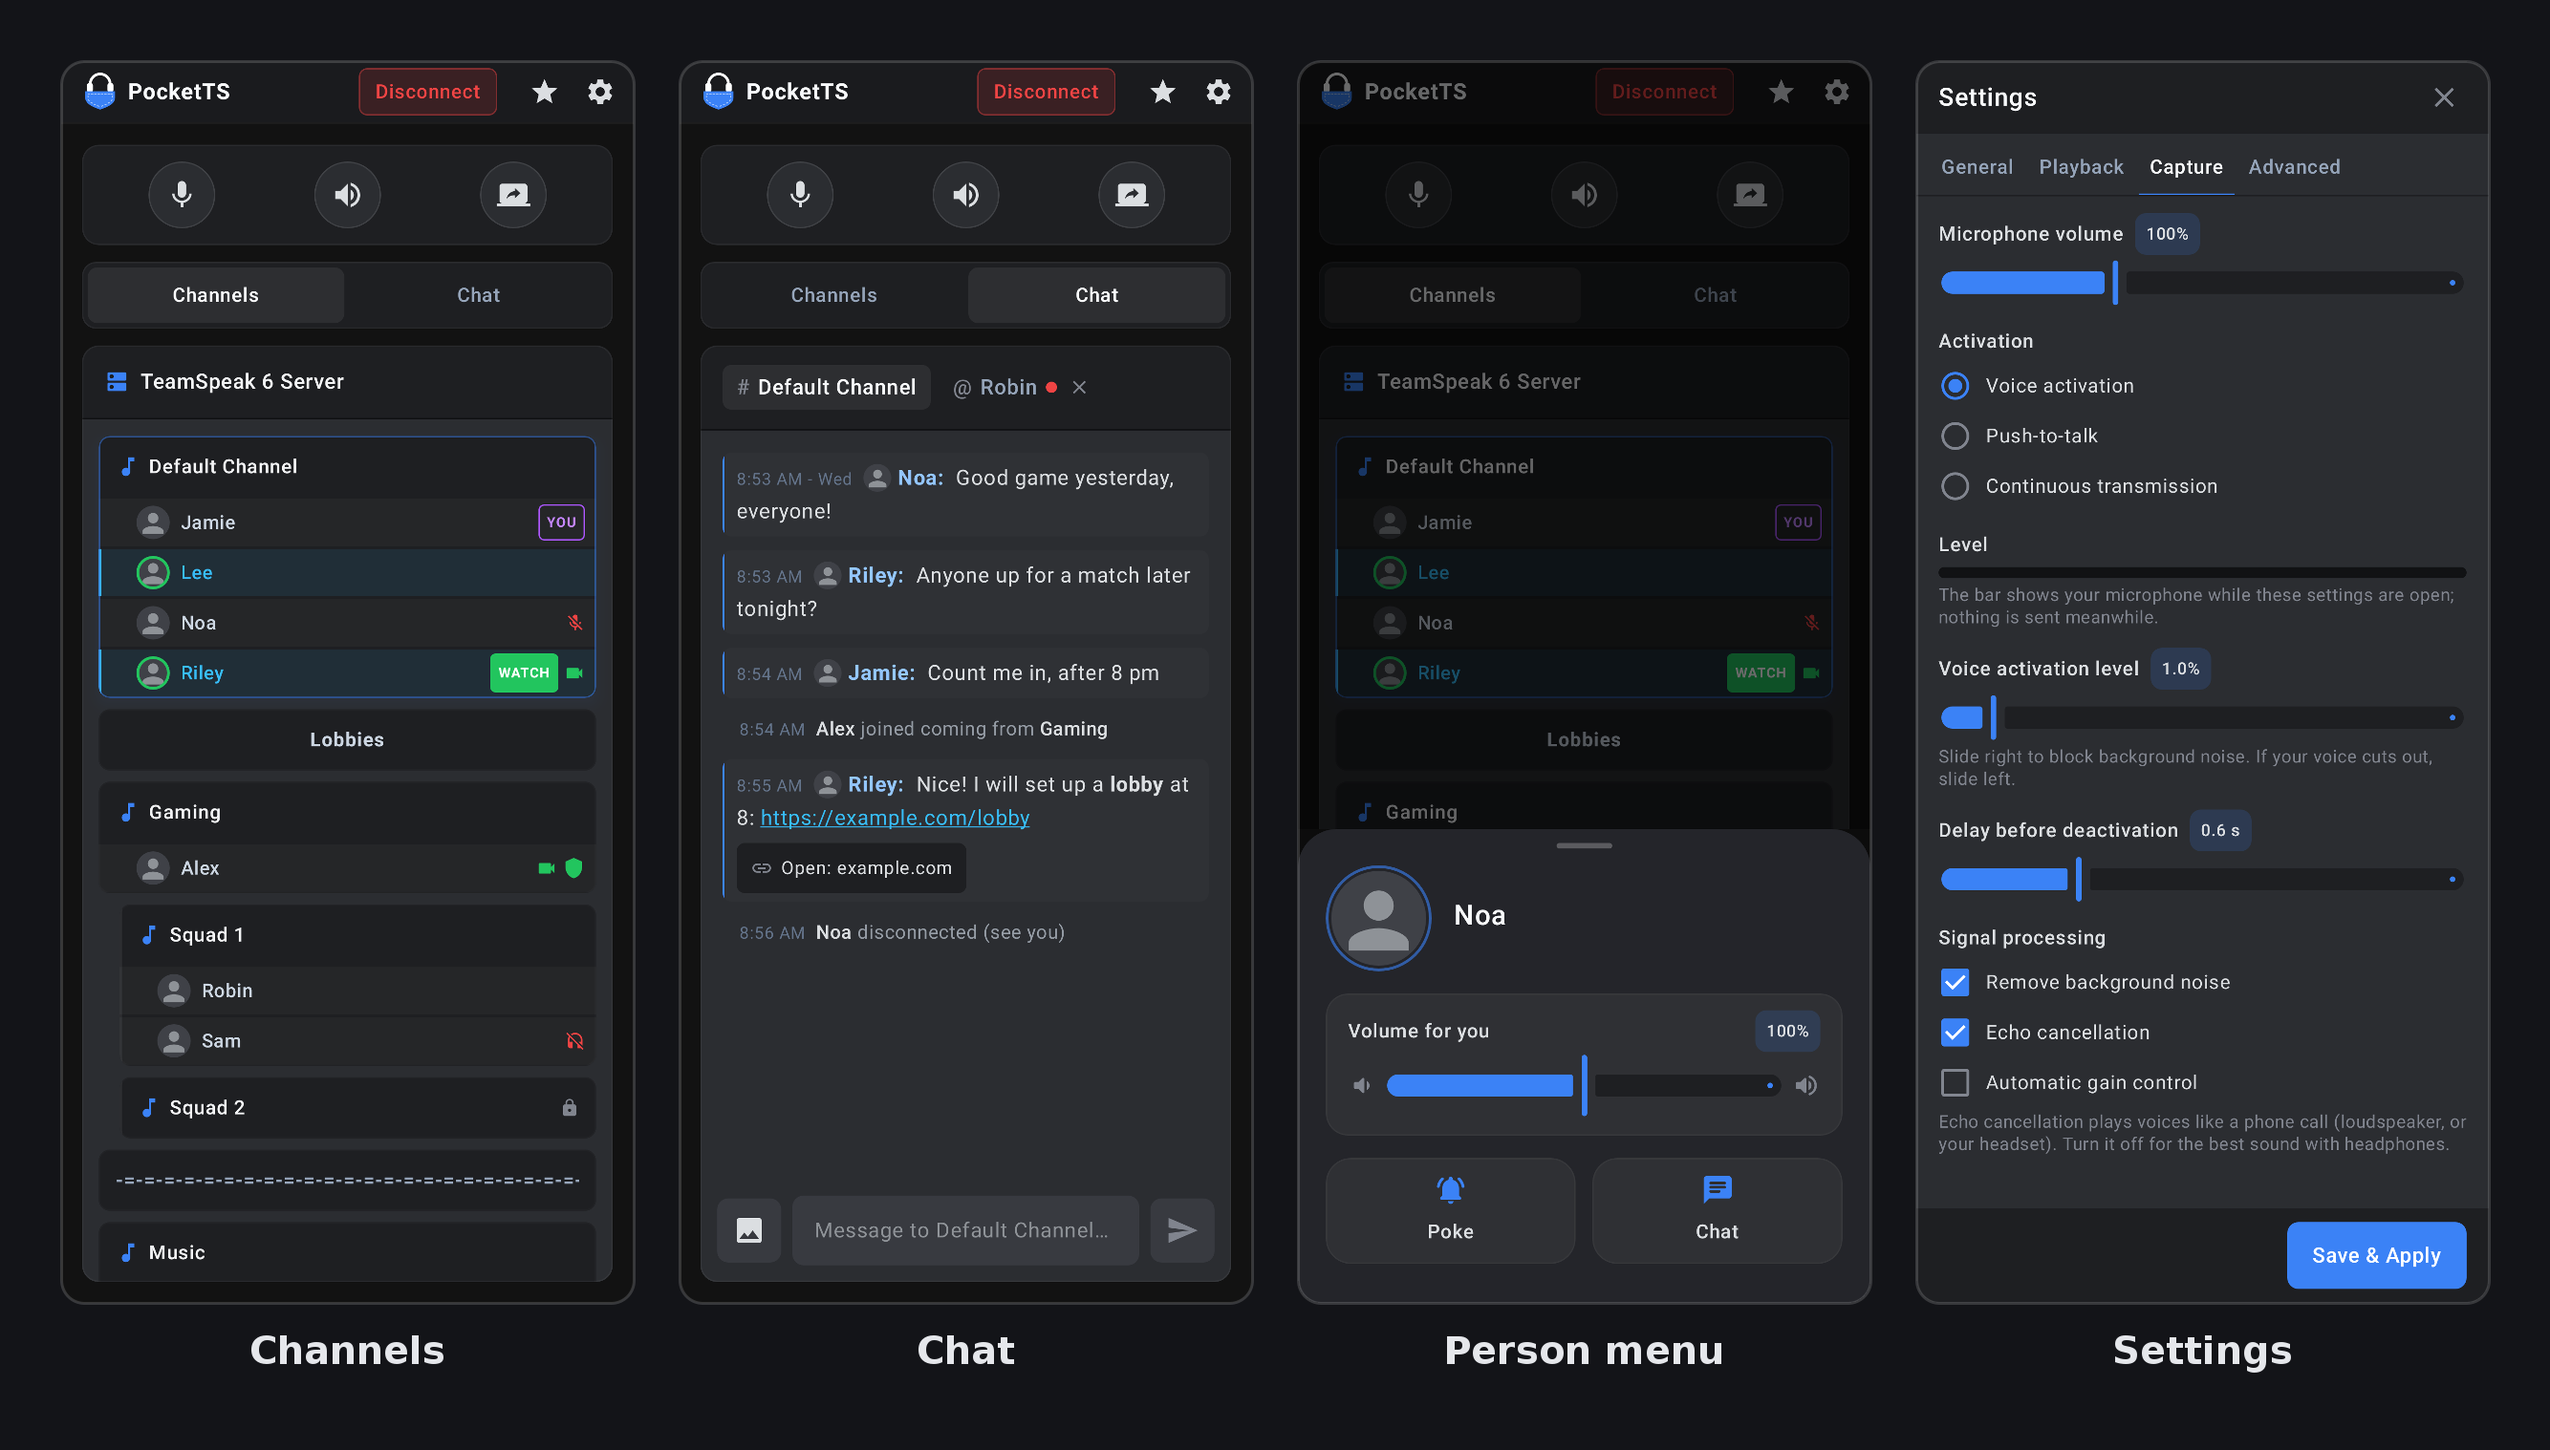
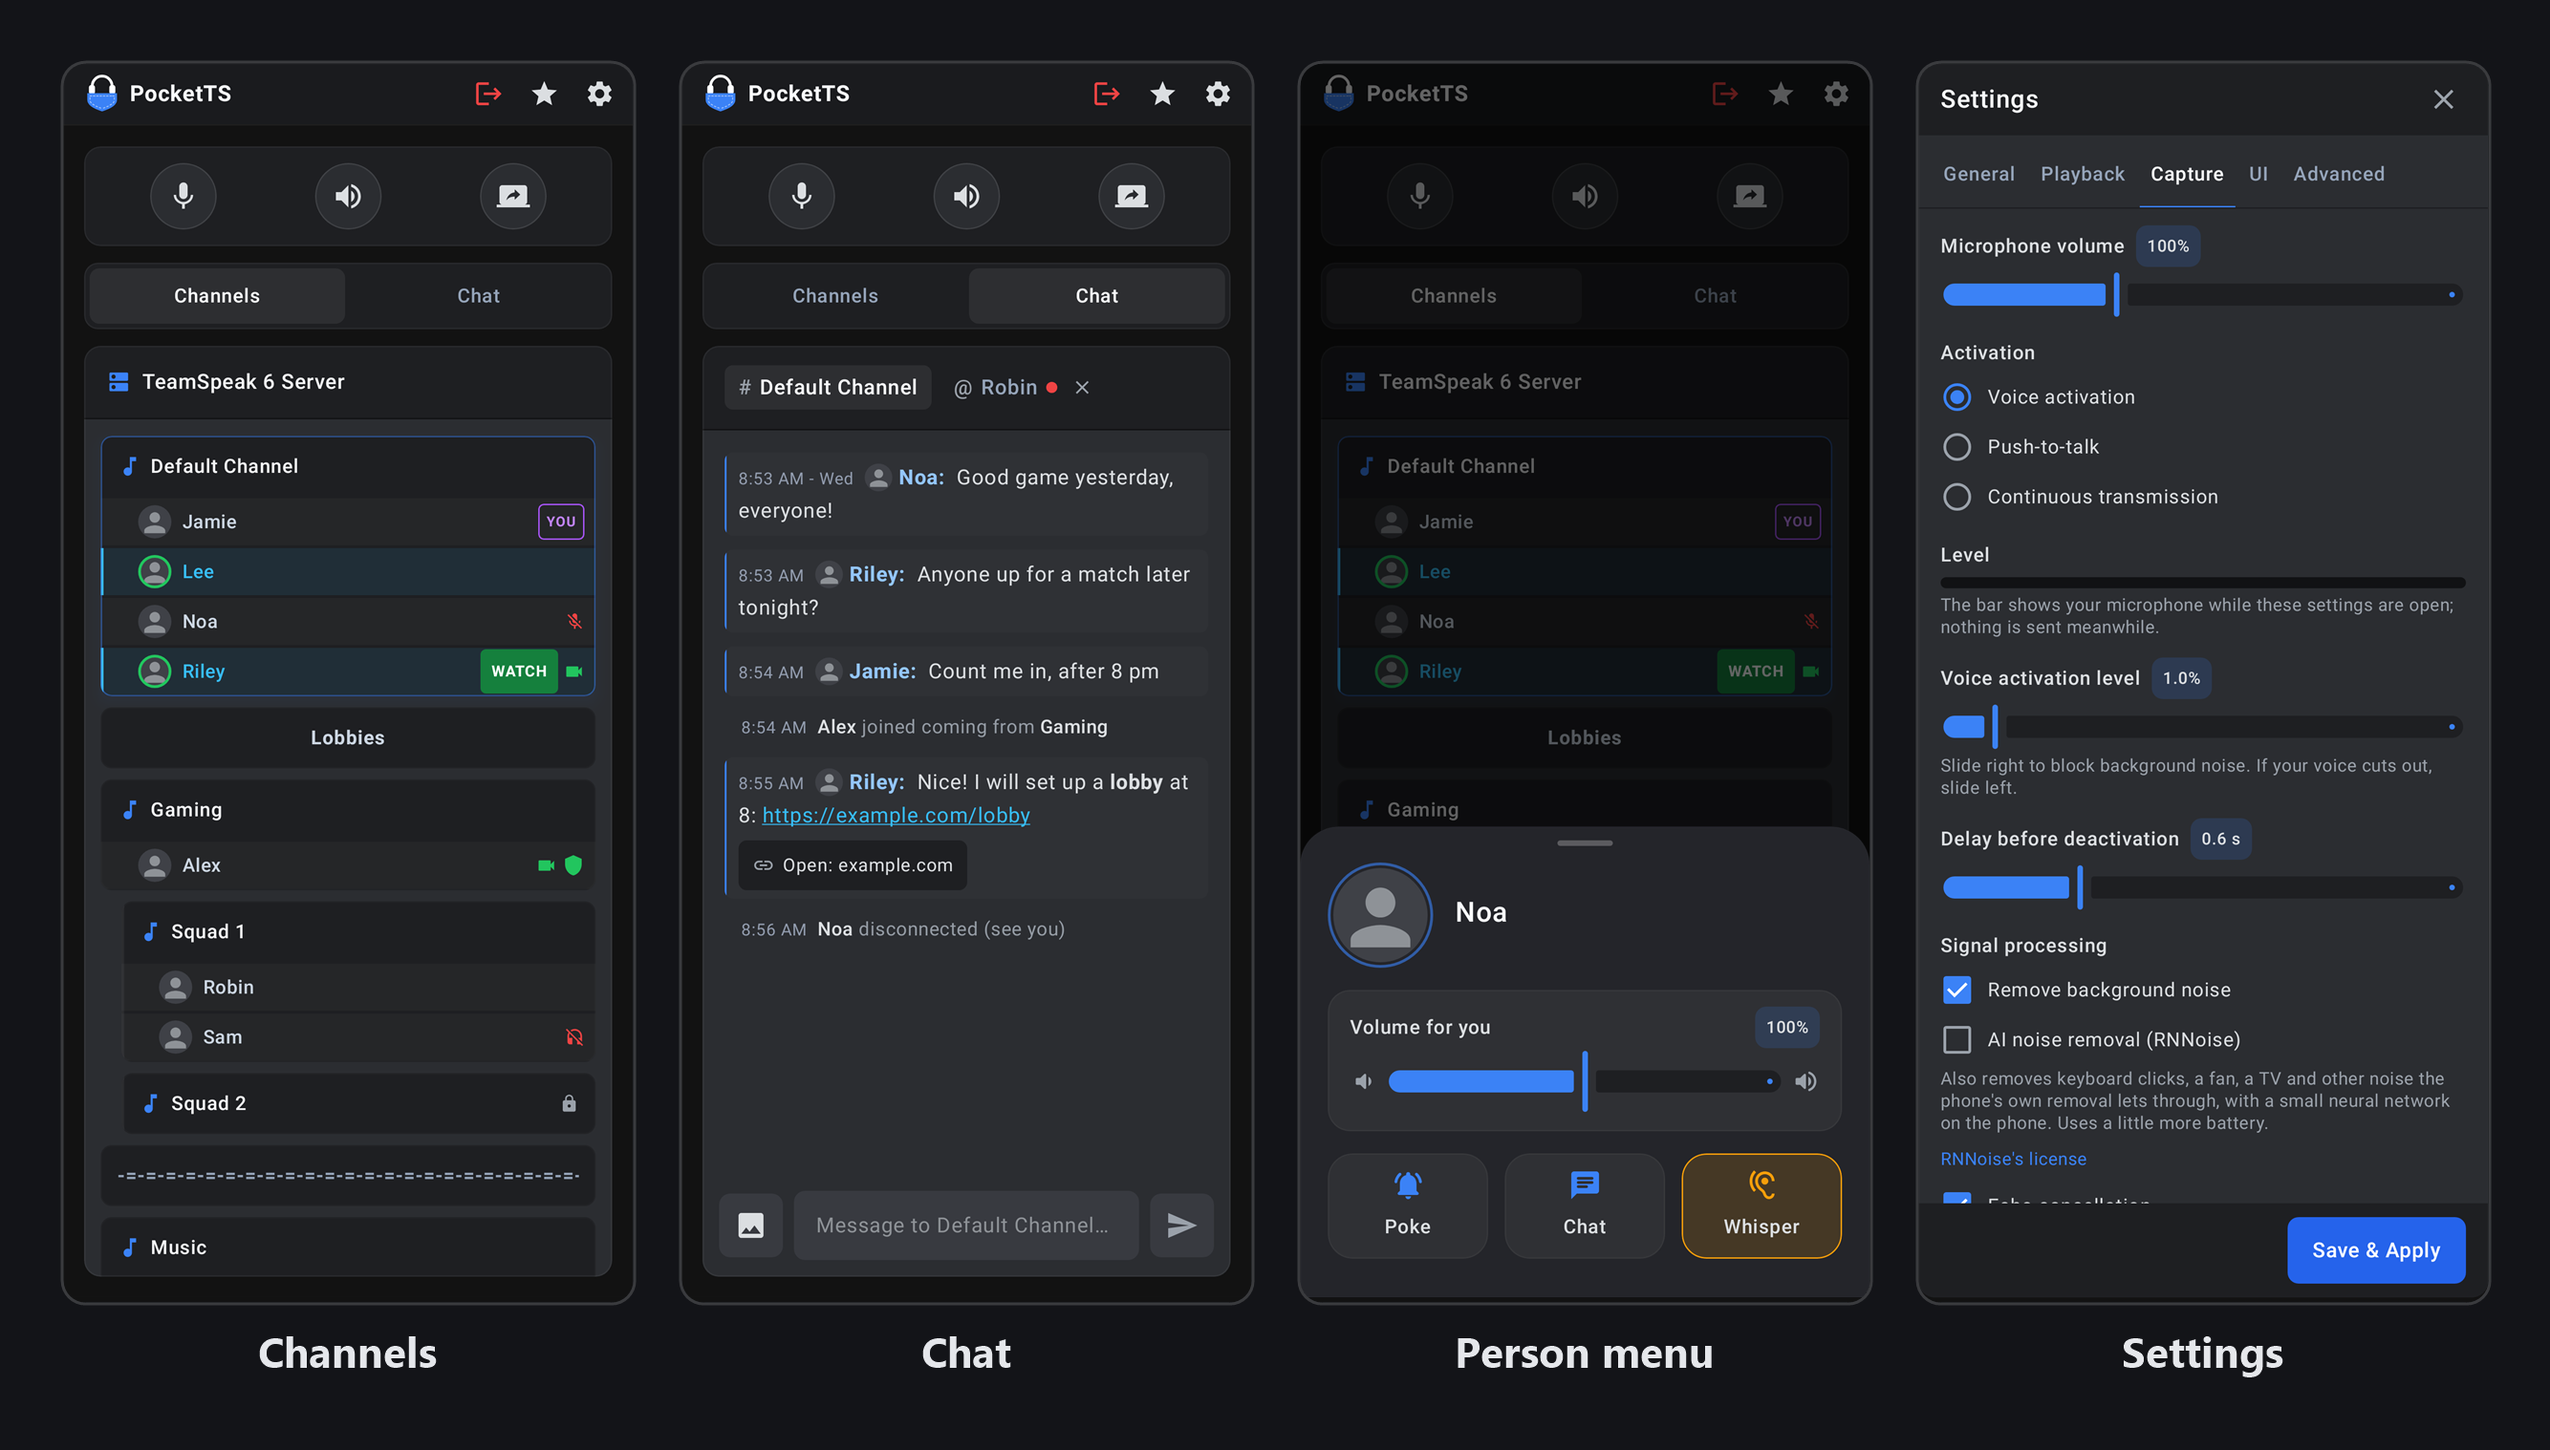
Release 1.6.0
versionCode 7, versionName 1.6.0. The changelog's lines become 1.6.0
(2026-11-02), most noticeable first: the camera's flashlight, zoom, tap to
focus and lenses, AI noise removal, talking while watching full screen, the
debug log, easier to read and tap, pasted ts3server:// links, screen
readers, and the two smoothness changes.

README: updated text; the features mention AI noise removal, the full
screen stream's push-to-talk and volume, and the camera's flashlight, zoom,
tap to focus and lenses; the limitations add 1:1 voice calls and group
chats, which go through myTeamSpeak. The overview picture is made again from
the current screenshots (Disconnect as an icon, lighter grey text, the
person menu's Whisper). The Play listing mentions the same new features.

diff --git a/CHANGELOG.md b/CHANGELOG.md
@@ -1,20 +1,7 @@
 # Changelog
 
-## Unreleased
+## 1.6.0 (2026-11-02)
 
-- **Smoother start:** PocketTS's own code is compiled ahead of time when the app is installed (a baseline profile),
-  so starting, opening screens the first time and starting a stream are smoother. The log notes how long a start took.
-- **Smoother in busy channels:** someone starting or stopping talking now redraws only their row in the channel list,
-  not the whole screen (and not the chat at all), so a busy channel uses less of the phone.
-- **Debug log:** Settings › Advanced › Debug log keeps a log for bug reports on the phone, crashes included, with
-  server addresses, names, messages and keys taken out (running numbers such as "server 1" tell them apart). Of the
-  chat it notes only that a message was sent or arrived. The app never sends it: Share log hands it to
-  the app you choose, Delete log removes it, and turning it off deletes it. Off by default. The privacy policy says
-  what it holds, and a bug report template asks for it.
-- **AI noise removal:** Settings › Capture › AI noise removal (RNNoise) runs Xiph's RNNoise, a small neural network, on
-  the microphone's sound before it's sent. It removes noise the phone's own noise removal lets through, such as
-  keyboard clicks, a fan or a TV; with both on, keyboard clicks next to the phone are almost silent. It's off by
-  default, and takes about a tenth of one processor core.
 - **Camera streams:** the camera has the app's own camera code now, which brings:
   - **Flashlight:** a button in the share bar lights the back camera (also a lens without a flash of its own, such as
     an ultra-wide, on phones that allow it); a new stream starts with it off, as with the ring light.
@@ -26,9 +13,18 @@
     ("0.6×", "1×") and switches to the next one during the stream.
   - **Losing the camera** to a call or another app ends the share with a message instead of a frozen picture.
   - The preview shows the picture as viewers see it, also with the turn locked.
+- **AI noise removal:** Settings › Capture › AI noise removal (RNNoise) runs Xiph's RNNoise, a small neural network, on
+  the microphone's sound before it's sent. It removes noise the phone's own noise removal lets through, such as
+  keyboard clicks, a fan or a TV; with both on, keyboard clicks next to the phone are almost silent. It's off by
+  default, and takes about a tenth of one processor core.
 - **Talking while watching full screen:** a stream on the full screen covered the push-to-talk button. In push-to-talk
   mode the round talk button is in its bottom corner (and the whisper button above it while there's a whisper list),
   with the stream's own buttons. The full screen also has the stream's volume slider, not only sound on and off.
+- **Debug log:** Settings › Advanced › Debug log keeps a log for bug reports on the phone, crashes included, with
+  server addresses, names, messages and keys taken out (running numbers such as "server 1" tell them apart). Of the
+  chat it notes only that a message was sent or arrived. The app never sends it: Share log hands it to
+  the app you choose, Delete log removes it, and turning it off deletes it. Off by default. The privacy policy says
+  what it holds, and a bug report template asks for it.
 - **Easier to read and tap:** grey text is a little lighter, and the WATCH and main blue buttons a little darker, so
   their text reads easily; WATCH and the small crosses are bigger to tap. Disconnect is an icon like the star and the
   gear next to it.
@@ -40,6 +36,10 @@
   Microphone, Sound and Share say whether they're on or off, tabs say which is chosen and when there are unread
   messages, warnings and "is whispering to you" are read out, a person's row says when they're talking, and in the
   channel editor Move up and Move down change the order without dragging.
+- **Smoother start:** PocketTS's own code is compiled ahead of time when the app is installed (a baseline profile),
+  so starting, opening screens the first time and starting a stream are smoother. The log notes how long a start took.
+- **Smoother in busy channels:** someone starting or stopping talking now redraws only their row in the channel list,
+  not the whole screen (and not the chat at all), so a busy channel uses less of the phone.
 
 ## 1.5.0 (2026-10-28)
 

diff --git a/README.md b/README.md
@@ -1,8 +1,5 @@
 # PocketTS
 
-> **Made with AI assistance.** PocketTS is written with the help of an AI coding assistant. Every change is tested
-> by hand on a real phone before it goes in.
-
 A free, unofficial TeamSpeak client for Android, made for TeamSpeak 6 servers. Type a nickname and a server address
 to join.
 
@@ -11,13 +8,16 @@ to join.
 ## What it does
 
 - **Voice:** voice activation, push-to-talk (also a floating button over other apps), whispering to chosen people or
-  channels, echo and noise removal. Keeps working with the screen off, and goes quiet during phone calls.
+  channels, echo and noise removal, and AI noise removal (RNNoise) for keyboard clicks, fans and the like. Keeps
+  working with the screen off, and goes quiet during phone calls.
 - **Channels:** who is where, with avatars, icons, badges and banners. Password-protected channels ask for the
   password. Hold a channel for its info.
 - **Chat:** channel and private chats, pictures, pokes, and a history kept on the phone for 90 days.
 - **Files:** a channel's files: download, upload, rename and delete them, and make folders (as the server allows).
-- **Streams:** watch others' screen and camera streams (at the size you choose, small over the app, or in a small
-  window over other apps), and share your own camera (with your microphone) or screen (with what the phone plays).
+- **Streams:** watch others' screen and camera streams (at the size you choose, small over the app, in a small window
+  over other apps, or on the full screen with push-to-talk and the stream's volume), and share your own camera (with
+  your microphone) or screen (with what the phone plays). The camera has a flashlight, zoom, tap to focus and a
+  button for the phone's other back lenses.
 - **Admin tools** (optional): move, kick and ban people, and add, edit, move and delete channels. The server decides
   who may.
 - **Connecting** by address, server nickname, TeamSpeak link or invite; favourites; privilege keys from a server's
@@ -43,7 +43,8 @@ Download the APK from [Releases](https://github.com/KorppuJauho/pocketts/release
 
 ## Known limitations
 
-- **No myTeamSpeak features.** Pictures shared through myTeamSpeak by the TeamSpeak app can't be shown in PocketTS.
+- **No myTeamSpeak features.** PocketTS doesn't use myTeamSpeak, TeamSpeak's account service, so what goes through
+  it isn't available: 1:1 voice calls, group chats, and pictures shared through myTeamSpeak by the TeamSpeak app.
 - **Pictures go to the server's own files.** PocketTS can't upload pictures to TeamSpeak's picture service. The
   pictures you send are saved in the channel's files on the server (file transfer), so you need permission to upload
   files in that channel. TeamSpeak app users see them as usual.
@@ -66,4 +67,4 @@ downloads), give it a different name and icon so nobody mistakes it for PocketTS
 
 PocketTS isn't affiliated with or endorsed by TeamSpeak Systems GmbH. TeamSpeak is their trademark.
 
-PocketTS is free and stays free. If you'd like to say thanks, you can [buy me a coffee](https://buymeacoffee.com/jauho).
+If you'd like to say thanks, you can [buy me a coffee](https://buymeacoffee.com/jauho).

diff --git a/docs/play/listing.md b/docs/play/listing.md
@@ -22,7 +22,7 @@ PocketTS is a voice chat app for TeamSpeak servers, made for phones. Connect to 
 VOICE
 • Voice activation, push-to-talk or always on
 • Whisper to chosen people or channels, wherever they are
-• Noise removal, echo cancellation and gain control
+• Noise removal, echo cancellation and gain control, and AI noise removal (RNNoise) for keyboard clicks, fans and the like
 • A volume for each person, and headset and volume-button push-to-talk
 • Keeps working with the screen off, and reconnects by itself when the network changes
 • Goes quiet during phone calls, and pauses a stream you share
@@ -34,8 +34,9 @@ CHANNELS AND CHAT
 • Hold a channel for its info, and browse its files: download, upload, rename and delete (as the server allows)
 
 STREAMS
-• Watch others' screen and camera streams at the size you like, small over the app, or in a small window over other apps
+• Watch others' screen and camera streams at the size you like, small over the app, in a small window over other apps, or on the full screen with push-to-talk and the stream's volume
 • Share your camera (front or back, with your microphone) or your screen (with what your phone plays)
+• The camera's flashlight, zoom and tap to focus, and a button for the phone's other back lenses
 
 AND MORE
 • Connect by address, server nickname, TeamSpeak link or invite
